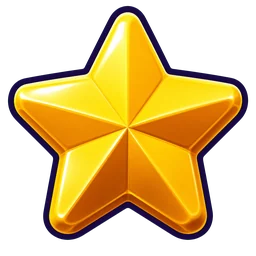
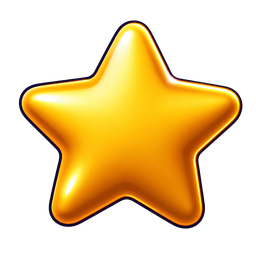
encargo 48: la estrella nueva del super (2026-08-08 60055fe)

diff --git a/play-cktxj8m6/index.html b/play-cktxj8m6/index.html
@@ -1,6 +1,6 @@
 <meta charset="utf-8">
 <meta name="robots" content="noindex, nofollow">
-<meta name="bt-build" content="2026-08-08 2a5528f"><!--+AG doc 34 Fase B: sin esto el navegador adivina el encoding y los emojis/flechas salen como mojibake (a-¶ PLAY) -->
+<meta name="bt-build" content="2026-08-08 60055fe"><!--+AG doc 34 Fase B: sin esto el navegador adivina el encoding y los emojis/flechas salen como mojibake (a-¶ PLAY) -->
 <meta name="viewport" content="width=device-width, initial-scale=1, maximum-scale=1, user-scalable=no">
 <title>BallTrials · El juego</title>
 <!--+AG doc 41 bloque E: el mapa de librerias (three, para el fondo vivo y las bolas de los menus).
@@ -6332,7 +6332,7 @@
 
 <!--+AG doc 41 bloque C: iconos de modo canonicos (SVG plano dorado del canal). Script CLASICO y
      antes del principal a proposito: se ejecuta en orden y la constante existe ya en el primer render. -->
-<script src="i18n/idiomas.js?v=2a5528f"></script><!--+AG doc 49: catalogo de los 20 idiomas + cargador de paquetes. Clasico y ANTES del script principal: LANGS/ord/nfmt se construyen con el. -->
+<script src="i18n/idiomas.js?v=60055fe"></script><!--+AG doc 49: catalogo de los 20 idiomas + cargador de paquetes. Clasico y ANTES del script principal: LANGS/ord/nfmt se construyen con el. -->
 <script src="arte/modeicons-vendored.js"></script>
 <script src="arte/bolas-canon.js"></script><!--+AG el color canonico de las 12 bolas, fuente unica (lo lee tambien integrar-bolas.py). Tiene que ir ANTES del script principal: ARCH_COLOR se construye con el. -->
 <script>
@@ -7643,7 +7643,10 @@ const nfmt=n=>Number(n||0).toLocaleString(BTI18N.nloc(LANG));
 //   `curl` devolvia los bytes nuevos y el navegador seguia pintando los viejos). La nota larga esta
 //   encima de `.cico` en el CSS. Al SUSTITUIR una imagen ya desplegada, sube este numero.
 //   v2 = 1-ago-2026: monedas de oro y gema (encargo 29) + trofeo con tinta (encargo 30).
-const ART_V='4';   /*+AG 7-ago: sube a 3 al entrar los 4 iconos de booster nuevos, que sustituyen a ficheros del mismo nombre.
+const ART_V='5';   /*+AG 8-ago: sube a 5 al entrar la ESTRELLA nueva del súper (encargo 48), que sustituye a
+                        `icono-super.webp`. Sin subirlo, el navegador y la CDN siguen sirviendo la vieja — y eso
+                        no es teoría: el 8-ago se midió a Chrome recibiendo el dibujo de hace 6 días.
+                     +AG 7-ago: sube a 3 al entrar los 4 iconos de booster nuevos, que sustituyen a ficheros del mismo nombre.
                       8-ago: sube a 4 porque los TRES REGALOS pasan de morado a rojo (doc 102) sin cambiar de nombre de
                       fichero — sin esto, el navegador y la CDN seguirian sirviendo la caja morada durante dias. */
 const uiArt=n=>`arte/ui/${n}.webp?v=${ART_V}`;
@@ -9888,7 +9891,7 @@ function vivasSync(){
   if(_vivas){ _vivas.sincroniza(raiz,z); return; }
   if(_vivasCargando) return;
   _vivasCargando=true;
-  import('./motor/chassis/vivas.mjs?v=2a5528f').then(m=>{ _vivas=m.vivas; _vivasCargando=false; window.__vivasInfo=()=>_vivas.info(); const [r,zz]=vivasQue(); _vivas.sincroniza(r,zz); })
+  import('./motor/chassis/vivas.mjs?v=60055fe').then(m=>{ _vivas=m.vivas; _vivasCargando=false; window.__vivasInfo=()=>_vivas.info(); const [r,zz]=vivasQue(); _vivas.sincroniza(r,zz); })
     .catch(e=>{ _vivasCargando=false; console.warn('[vivas] no cargo; las cartas se quedan sin bola', e); });
 }
 //+AG y se PARAN al salir: doce bolas en 3D girando detras de una pantalla que ya no miras es bateria
@@ -10158,7 +10161,7 @@ const esEstela=id=>ESTELA_ORD.indexOf(id)>=0;
 let ESTELA_COLS=null;
 function cargaEstelaCols(cb){
   if(ESTELA_COLS) return cb();
-  import('./motor/chassis/estelas.mjs?v=2a5528f')
+  import('./motor/chassis/estelas.mjs?v=60055fe')
     .then(m=>{ ESTELA_COLS=m.ESTELAS||{}; cb(); })
     .catch(()=>{ ESTELA_COLS={}; cb(); });   //   sin red, fichas en gris: nunca una pantalla rota
 }
@@ -12629,7 +12632,7 @@ atrasSync();
 <!--+AG El mapa de librerias (importmap) YA NO VIVE AQUI: se subio al <head>, arriba del todo.
      Tiene que estar parseado ANTES del primer import, y desde aqui abajo no lo estaba. -->
 <script type="module">
-  import { startAmbient } from './arte/ambient.mjs?v=2a5528f';
+  import { startAmbient } from './arte/ambient.mjs?v=60055fe';
   //+AG el modulo se ejecuta DESPUES del script clasico, asi que al llegar aqui la Home ya esta
   //   pintada: por eso se enciende a mano si toca, en vez de esperar a un cambio de pantalla.
   //+AG feedback Jaime 2026-07-27: ahora hay DOS lienzos posibles (Home #ambient y Resultados #ambientR);
@@ -12645,7 +12648,7 @@ atrasSync();
   //+AG doc 51: «asi se ve en pista» dentro de la ficha del Garaje. Se expone en window porque
   //   openDetail/closeDetail viven en el script CLASICO de arriba, que no puede importar modulos.
   //   Mismo trato que el fondo vivo: un solo contexto WebGL a la vez, y se apaga al salir.
-  import('./arte/pista-preview.mjs?v=2a5528f').then(m => {
+  import('./arte/pista-preview.mjs?v=60055fe').then(m => {
     window.BT_PISTA = { show:(el,k)=>{ try{ m.showPista(el,k); }catch(e){} }, stop:()=>m.stopPista() };
   });
 </script>
@@ -12657,8 +12660,8 @@ atrasSync();
      Se reusa el reproductor DEL MOTOR (chassis/webaudio.mjs), no uno nuevo: mismo desbloqueo por gesto, mismo
      rescate al volver de segundo plano en movil. -->
 <script type="module">
-  import { createWebAudio } from './motor/chassis/webaudio.mjs?v=2a5528f';
-  import { createUiSfx } from './motor/chassis/uisfx.mjs?v=2a5528f';   //+AG el clic de los menus (VB Jaime 2026-07-27)
+  import { createWebAudio } from './motor/chassis/webaudio.mjs?v=60055fe';
+  import { createUiSfx } from './motor/chassis/uisfx.mjs?v=60055fe';   //+AG el clic de los menus (VB Jaime 2026-07-27)
   //+AG VOLUMEN MEDIDO, no a ojo. La pista de lobby ya viene suavizada de origen (-22,3 LUFS) y las de partida
   //   estan a -15, o sea 7 dB mas fuertes. Con el 0.26 que usa la web oficial esto quedaria 8,5 dB por debajo de
   //   la partida: casi inaudible. Con 0.40 se queda ~5 dB por debajo, que es lo que se busca: los menus suenan de
@@ -12828,7 +12831,7 @@ atrasSync();
   (async ()=>{
     try{
       const [{crearNube},{crearSincro}] = await Promise.all([
-        import('./motor/chassis/nube.mjs?v=2a5528f'), import('./motor/chassis/sincro.mjs?v=2a5528f')]);
+        import('./motor/chassis/nube.mjs?v=60055fe'), import('./motor/chassis/sincro.mjs?v=60055fe')]);
       const nube   = crearNube();
       const sincro = crearSincro({ nube, aviso:(q,d)=>console.log('[nube]', q, d||'') });
       window.BT_NUBE = { nube, sincro };

diff --git a/play-cktxj8m6/motor/redlight/index.html b/play-cktxj8m6/motor/redlight/index.html
@@ -3,7 +3,7 @@
 <head>
 <meta charset="utf-8" />
 <meta name="robots" content="noindex, nofollow">
-<meta name="bt-build" content="2026-08-08 2a5528f">
+<meta name="bt-build" content="2026-08-08 60055fe">
 <meta name="viewport" content="width=device-width, initial-scale=1" />
 <!--+AG el HTML se sirve en INGLES (defecto del juego); ?lang=es lo traduce por JS (applyLang) -->
 <title>YouBall · Red Light Rush (WebGL) · The Marble Games</title>
@@ -536,7 +536,7 @@ if(new URLSearchParams(location.search).get('drive')==='1'){
 
 <!--+AG ICONO DE MODO para el cartel de arranque: script CLÁSICO (se ejecuta antes del módulo) igual que en
      juego.html, así window.VENDORED_MODE_ICONS ya existe cuando chassis/arranque.mjs construye el cartel. -->
-<script src="../../i18n/idiomas.js?v=2a5528f"></script><!--+AG doc 49: catalogo y cargador de los 20 idiomas, compartido con el shell. Clasico y antes del modulo. -->
+<script src="../../i18n/idiomas.js?v=60055fe"></script><!--+AG doc 49: catalogo y cargador de los 20 idiomas, compartido con el shell. Clasico y antes del modulo. -->
 <script src="../../arte/modeicons-vendored.js"></script>
 
 <script type="importmap">
@@ -547,32 +547,32 @@ if(new URLSearchParams(location.search).get('drive')==='1'){
 </script>
 
 <script type="module">
-import { THREE, sat, createStage, createParticles, makeBallVinyl, createStarBurst, createWindTrail, createBloom, frameOrtho, BLOOM } from '../chassis/gfx.mjs?v=2a5528f';
-import { paleta as estelaPaleta, emiteEstela } from '../chassis/estelas.mjs?v=2a5528f';   //+AG doc 97 §6: la estela cosmetica del jugador
-import { archLook } from '../chassis/ballmat.mjs?v=2a5528f';   //+AG doc 41 bloque G: material de la bola-heroe
-import { attachSquash } from '../chassis/squash.mjs?v=2a5528f';
-import { createCelebration } from '../chassis/celebration.mjs?v=2a5528f';
-import { createKillfeed } from '../chassis/killfeed.mjs?v=2a5528f';
-import { createCensusBoard } from '../chassis/censusboard.mjs?v=2a5528f';
-import { createCupoGauge } from '../chassis/cupogauge.mjs?v=2a5528f';
-import { createKillTags } from '../chassis/killtag.mjs?v=2a5528f';
-import { crearInventario } from '../chassis/invboost.mjs?v=2a5528f';   //+AG 2026-08-06 inventario de boosters (1 uso gratis + stock comprado)
-import { EmoBook, PRIO } from '../chassis/emotions.mjs?v=2a5528f';
-import { archFace } from '../chassis/facegen.mjs?v=2a5528f';   //+AG archFace: la cara de la FICHA (ceja+boca del heroe) sobre el reposo
-import { Sim, TEAMS, SHORT_COLORS, SHORT_COLORS_6, BALL_R, FPS, FIELD_W, FIELD_L, XL, XR, SPAWN_Y, GATE_Y, SAFE_Y } from './sim.js?v=2a5528f';
-import { createWebAudio, pickTrack } from '../chassis/webaudio.mjs?v=2a5528f';
-import { buildSfxBuffer } from './sfxmap.mjs?v=2a5528f';
-import { createCoach } from '../chassis/coach.mjs?v=2a5528f';   //+AG COACH del tutorial "Cómo jugar" (solo se usa con ?tutorial=1)
-import { crearSalida } from '../chassis/salida.mjs?v=2a5528f';   //+AG 2026-08-08 · preparar la bola durante la cuenta atrás
-import { createArranque, modeBanner, sfxCountdown } from '../chassis/arranque.mjs?v=2a5528f';   //+AG cartel "¿LISTO?" + cuenta atrás CON sonido (los 3 modos)
-import { createUiSfx } from '../chassis/uisfx.mjs?v=2a5528f';   //+AG doc 88: el sonido de "no puedo"
-import { createJuice } from '../chassis/juice.mjs?v=2a5528f';   //+AG doc 88: lo que pasa cuando el dedo toca un botón (los 3 modos)
+import { THREE, sat, createStage, createParticles, makeBallVinyl, createStarBurst, createWindTrail, createBloom, frameOrtho, BLOOM } from '../chassis/gfx.mjs?v=60055fe';
+import { paleta as estelaPaleta, emiteEstela } from '../chassis/estelas.mjs?v=60055fe';   //+AG doc 97 §6: la estela cosmetica del jugador
+import { archLook } from '../chassis/ballmat.mjs?v=60055fe';   //+AG doc 41 bloque G: material de la bola-heroe
+import { attachSquash } from '../chassis/squash.mjs?v=60055fe';
+import { createCelebration } from '../chassis/celebration.mjs?v=60055fe';
+import { createKillfeed } from '../chassis/killfeed.mjs?v=60055fe';
+import { createCensusBoard } from '../chassis/censusboard.mjs?v=60055fe';
+import { createCupoGauge } from '../chassis/cupogauge.mjs?v=60055fe';
+import { createKillTags } from '../chassis/killtag.mjs?v=60055fe';
+import { crearInventario } from '../chassis/invboost.mjs?v=60055fe';   //+AG 2026-08-06 inventario de boosters (1 uso gratis + stock comprado)
+import { EmoBook, PRIO } from '../chassis/emotions.mjs?v=60055fe';
+import { archFace } from '../chassis/facegen.mjs?v=60055fe';   //+AG archFace: la cara de la FICHA (ceja+boca del heroe) sobre el reposo
+import { Sim, TEAMS, SHORT_COLORS, SHORT_COLORS_6, BALL_R, FPS, FIELD_W, FIELD_L, XL, XR, SPAWN_Y, GATE_Y, SAFE_Y } from './sim.js?v=60055fe';
+import { createWebAudio, pickTrack } from '../chassis/webaudio.mjs?v=60055fe';
+import { buildSfxBuffer } from './sfxmap.mjs?v=60055fe';
+import { createCoach } from '../chassis/coach.mjs?v=60055fe';   //+AG COACH del tutorial "Cómo jugar" (solo se usa con ?tutorial=1)
+import { crearSalida } from '../chassis/salida.mjs?v=60055fe';   //+AG 2026-08-08 · preparar la bola durante la cuenta atrás
+import { createArranque, modeBanner, sfxCountdown } from '../chassis/arranque.mjs?v=60055fe';   //+AG cartel "¿LISTO?" + cuenta atrás CON sonido (los 3 modos)
+import { createUiSfx } from '../chassis/uisfx.mjs?v=60055fe';   //+AG doc 88: el sonido de "no puedo"
+import { createJuice } from '../chassis/juice.mjs?v=60055fe';   //+AG doc 88: lo que pasa cuando el dedo toca un botón (los 3 modos)
 //+AG el ámbito NO es opcional: la regla base es `#controls button` (id + etiqueta) y le gana en
 //   especificidad a cualquier `.j-hit` suelto. Es la trampa que ya costó una versión muerta en este
 //   mismo fichero (ver la nota de `#controls button#bGhost .bi`).
 const juice = createJuice({ ambito:'#controls', reducido: new URLSearchParams(location.search).get('redfx')==='1' });
-import { createPausa } from '../chassis/pausa.mjs?v=2a5528f';   //+AG la partida se PARA cuando el shell pregunta encima (los 3 modos)
-import { cantarPuesto } from '../chassis/veredicto.mjs?v=2a5528f';   //+AG cartel de FIN: "en qué puesto has quedado", antes de soltar el resultado al shell
+import { createPausa } from '../chassis/pausa.mjs?v=60055fe';   //+AG la partida se PARA cuando el shell pregunta encima (los 3 modos)
+import { cantarPuesto } from '../chassis/veredicto.mjs?v=60055fe';   //+AG cartel de FIN: "en qué puesto has quedado", antes de soltar el resultado al shell
 
 window.addEventListener('error', e => { document.getElementById('err').style.display='grid'; console.error(e.error||e.message); });
 

diff --git a/play-cktxj8m6/motor/race/index.html b/play-cktxj8m6/motor/race/index.html
@@ -4,7 +4,7 @@
 <head>
 <meta charset="utf-8" />
 <meta name="robots" content="noindex, nofollow">
-<meta name="bt-build" content="2026-08-08 2a5528f">
+<meta name="bt-build" content="2026-08-08 60055fe">
 <meta name="viewport" content="width=device-width, initial-scale=1" />
 <title>YouBall · La Gran Carrera (WebGL)</title>
 <style>
@@ -491,7 +491,7 @@ if(new URLSearchParams(location.search).get('drive')==='1'){
 
 <!--+AG ICONO DE MODO para el cartel de arranque: script CLÁSICO (se ejecuta antes del módulo) igual que en
      juego.html, así window.VENDORED_MODE_ICONS ya existe cuando chassis/arranque.mjs construye el cartel. -->
-<script src="../../i18n/idiomas.js?v=2a5528f"></script><!--+AG doc 49: catalogo y cargador de los 20 idiomas, compartido con el shell. Clasico y antes del modulo. -->
+<script src="../../i18n/idiomas.js?v=60055fe"></script><!--+AG doc 49: catalogo y cargador de los 20 idiomas, compartido con el shell. Clasico y antes del modulo. -->
 <script src="../../arte/modeicons-vendored.js"></script>
 
 <script type="importmap">
@@ -502,30 +502,30 @@ if(new URLSearchParams(location.search).get('drive')==='1'){
 </script>
 
 <script type="module">
-import { THREE, BLOOM, sat, createStage, createParticles, makeBallVinyl, createStarBurst, createWindTrail, createItemPops, createBloom, frameOrtho, buildHud, updateHud } from '../chassis/gfx.mjs?v=2a5528f';
-import { archLook } from '../chassis/ballmat.mjs?v=2a5528f';   //+AG doc 41 bloque G: material de la bola-heroe
-import { attachSquash } from '../chassis/squash.mjs?v=2a5528f';
-import { crearEscudos } from '../chassis/escudo.mjs?v=2a5528f';   //+AG 2026-08-08: la burbuja que dice "llevo escudo puesto"
-import { paleta as estelaPaleta, emiteEstela } from '../chassis/estelas.mjs?v=2a5528f';   //+AG doc 97 §6: la estela cosmetica del jugador
+import { THREE, BLOOM, sat, createStage, createParticles, makeBallVinyl, createStarBurst, createWindTrail, createItemPops, createBloom, frameOrtho, buildHud, updateHud } from '../chassis/gfx.mjs?v=60055fe';
+import { archLook } from '../chassis/ballmat.mjs?v=60055fe';   //+AG doc 41 bloque G: material de la bola-heroe
+import { attachSquash } from '../chassis/squash.mjs?v=60055fe';
+import { crearEscudos } from '../chassis/escudo.mjs?v=60055fe';   //+AG 2026-08-08: la burbuja que dice "llevo escudo puesto"
+import { paleta as estelaPaleta, emiteEstela } from '../chassis/estelas.mjs?v=60055fe';   //+AG doc 97 §6: la estela cosmetica del jugador
 import { Sim, RNG, TEAMS, SHORT_COLORS, BALL_R, WIDTH, GATE_Y, GATE_H, TOP, FPS,
-         DIR, N_BALLS, CAM_SCALE, ASPA_R, ASPA_THICK, PLAT_HW, PLAT_HH } from './sim.js?v=2a5528f';   //+AG extras de la capa de agencia
+         DIR, N_BALLS, CAM_SCALE, ASPA_R, ASPA_THICK, PLAT_HW, PLAT_HH } from './sim.js?v=60055fe';   //+AG extras de la capa de agencia
 //+AG doc 62: los encuadres del cierre (sim.hero_scale / sim.celeb_scale) se leen del OBJETO sim, no por
 //   import. Un export que la CDN aún no ha refrescado tumba el módulo entero y la partida no arranca (pasó
 //   en producción el 2-ago); un campo que falta degrada a la cámara de siempre. Ver la nota en sim.js.
-import { EmoBook, PRIO } from '../chassis/emotions.mjs?v=2a5528f';
-import { archFace } from '../chassis/facegen.mjs?v=2a5528f';   //+AG archFace: la cara de la FICHA (ceja+boca del heroe) sobre el reposo
-import { itemTexture } from '../chassis/itemgen.mjs?v=2a5528f';
-import { crearInventario } from '../chassis/invboost.mjs?v=2a5528f';   //+AG 2026-08-06 inventario de boosters (1 uso gratis + stock comprado)
-import { createWebAudio, pickTrack } from '../chassis/webaudio.mjs?v=2a5528f';
-import { buildSfxBuffer } from './sfxmap.mjs?v=2a5528f';
-import { runToEnd } from '../chassis/simrun.mjs?v=2a5528f';
-import { createCoach } from '../chassis/coach.mjs?v=2a5528f';   //+AG COACH del tutorial "Cómo jugar" (solo se usa con ?tutorial=1)
-import { crearSalida } from '../chassis/salida.mjs?v=2a5528f';   //+AG 2026-08-08 · preparar la bola durante la cuenta atrás
-import { createArranque, modeBanner, sfxCountdown } from '../chassis/arranque.mjs?v=2a5528f';   //+AG cartel "¿LISTO?" + cuenta atrás CON sonido (los 3 modos)
-import { createPausa } from '../chassis/pausa.mjs?v=2a5528f';   //+AG la partida se PARA cuando el shell pregunta encima (los 3 modos)
-import { cantarPuesto } from '../chassis/veredicto.mjs?v=2a5528f';   //+AG cartel de META: "en qué puesto has quedado", antes de soltar el resultado al shell
-import { createUiSfx } from '../chassis/uisfx.mjs?v=2a5528f';   //+AG doc 88: el sonido de "no puedo"
-import { createJuice } from '../chassis/juice.mjs?v=2a5528f';   //+AG doc 88: lo que pasa cuando el dedo toca un botón (los 3 modos)
+import { EmoBook, PRIO } from '../chassis/emotions.mjs?v=60055fe';
+import { archFace } from '../chassis/facegen.mjs?v=60055fe';   //+AG archFace: la cara de la FICHA (ceja+boca del heroe) sobre el reposo
+import { itemTexture } from '../chassis/itemgen.mjs?v=60055fe';
+import { crearInventario } from '../chassis/invboost.mjs?v=60055fe';   //+AG 2026-08-06 inventario de boosters (1 uso gratis + stock comprado)
+import { createWebAudio, pickTrack } from '../chassis/webaudio.mjs?v=60055fe';
+import { buildSfxBuffer } from './sfxmap.mjs?v=60055fe';
+import { runToEnd } from '../chassis/simrun.mjs?v=60055fe';
+import { createCoach } from '../chassis/coach.mjs?v=60055fe';   //+AG COACH del tutorial "Cómo jugar" (solo se usa con ?tutorial=1)
+import { crearSalida } from '../chassis/salida.mjs?v=60055fe';   //+AG 2026-08-08 · preparar la bola durante la cuenta atrás
+import { createArranque, modeBanner, sfxCountdown } from '../chassis/arranque.mjs?v=60055fe';   //+AG cartel "¿LISTO?" + cuenta atrás CON sonido (los 3 modos)
+import { createPausa } from '../chassis/pausa.mjs?v=60055fe';   //+AG la partida se PARA cuando el shell pregunta encima (los 3 modos)
+import { cantarPuesto } from '../chassis/veredicto.mjs?v=60055fe';   //+AG cartel de META: "en qué puesto has quedado", antes de soltar el resultado al shell
+import { createUiSfx } from '../chassis/uisfx.mjs?v=60055fe';   //+AG doc 88: el sonido de "no puedo"
+import { createJuice } from '../chassis/juice.mjs?v=60055fe';   //+AG doc 88: lo que pasa cuando el dedo toca un botón (los 3 modos)
 //+AG el ámbito NO es opcional: `#ctr button:disabled` le gana en especificidad a cualquier `.j-hit` suelto,
 //   y un booster se pone `disabled` en el MISMO frame en que se dispara. Sin el ámbito, el fogonazo del
 //   botón que más importa no se vería jamás (es la trampa del doc 74 §6, ahora con su nombre).

diff --git a/play-cktxj8m6/motor/cazador/index.html b/play-cktxj8m6/motor/cazador/index.html
@@ -3,7 +3,7 @@
 <head>
 <meta charset="utf-8" />
 <meta name="robots" content="noindex, nofollow">
-<meta name="bt-build" content="2026-08-08 2a5528f">
+<meta name="bt-build" content="2026-08-08 60055fe">
 <meta name="viewport" content="width=device-width, initial-scale=1" />
 <!--+AG el HTML se sirve en INGLES (defecto del juego); ?lang=es lo traduce por JS (applyLang) -->
 <title>YouBall · The Hunter (WebGL)</title>
@@ -395,7 +395,7 @@ if(new URLSearchParams(location.search).get('drive')==='1'){
 
 <!--+AG ICONO DE MODO para el cartel de arranque: script CLÁSICO (se ejecuta antes del módulo) igual que en
      juego.html, así window.VENDORED_MODE_ICONS ya existe cuando chassis/arranque.mjs construye el cartel. -->
-<script src="../../i18n/idiomas.js?v=2a5528f"></script><!--+AG doc 49: catalogo y cargador de los 20 idiomas, compartido con el shell. Clasico y antes del modulo. -->
+<script src="../../i18n/idiomas.js?v=60055fe"></script><!--+AG doc 49: catalogo y cargador de los 20 idiomas, compartido con el shell. Clasico y antes del modulo. -->
 <script src="../../arte/modeicons-vendored.js"></script>
 
 <script type="importmap">
@@ -406,30 +406,30 @@ if(new URLSearchParams(location.search).get('drive')==='1'){
 </script>
 
 <script type="module">
-import { THREE, BLOOM, sat, createStage, createParticles, makeBallVinyl, makeFacePlane, createItemPool, createItemPops, createStarBurst, createWindTrail, createBloom, frameOrtho } from '../chassis/gfx.mjs?v=2a5528f';
-import { archLook } from '../chassis/ballmat.mjs?v=2a5528f';   //+AG doc 41 bloque G: material de la bola-heroe
-import { attachSquash } from '../chassis/squash.mjs?v=2a5528f';
-import { crearEscudos } from '../chassis/escudo.mjs?v=2a5528f';   //+AG 2026-08-08: la burbuja que dice "llevo escudo puesto" (misma pieza que la Carrera)
-import { paleta as estelaPaleta, emiteEstela } from '../chassis/estelas.mjs?v=2a5528f';   //+AG doc 97 §6: la estela cosmetica del jugador
-import { Sim, RNG, TEAMS, BALL_R, ARENA_W, ARENA_H, FPS, AGENCIA } from './sim.js?v=2a5528f';
-import { EmoBook, PRIO } from '../chassis/emotions.mjs?v=2a5528f';
-import { archFace } from '../chassis/facegen.mjs?v=2a5528f';   //+AG archFace: la cara de la FICHA (ceja+boca del heroe) sobre el reposo
-import { createCelebration } from '../chassis/celebration.mjs?v=2a5528f';
-import { createWebAudio, pickTrack } from '../chassis/webaudio.mjs?v=2a5528f';
-import { crearInventario } from '../chassis/invboost.mjs?v=2a5528f';   //+AG 2026-08-06 inventario de boosters (1 uso gratis + stock comprado)
-import { buildSfxBuffer } from './sfxmap.mjs?v=2a5528f';
-import { createCoach } from '../chassis/coach.mjs?v=2a5528f';   //+AG COACH del tutorial "Cómo jugar" (solo se usa con ?tutorial=1)
-import { crearSalida } from '../chassis/salida.mjs?v=2a5528f';   //+AG 2026-08-08 · preparar la bola durante la cuenta atrás
-import { createArranque, modeBanner, sfxCountdown } from '../chassis/arranque.mjs?v=2a5528f';   //+AG cartel "¿LISTO?" + cuenta atrás CON sonido (los 3 modos)
-import { createUiSfx } from '../chassis/uisfx.mjs?v=2a5528f';   //+AG doc 88: el sonido de "no puedo"
-import { createJuice } from '../chassis/juice.mjs?v=2a5528f';   //+AG doc 88: lo que pasa cuando el dedo toca un botón (los 3 modos)
+import { THREE, BLOOM, sat, createStage, createParticles, makeBallVinyl, makeFacePlane, createItemPool, createItemPops, createStarBurst, createWindTrail, createBloom, frameOrtho } from '../chassis/gfx.mjs?v=60055fe';
+import { archLook } from '../chassis/ballmat.mjs?v=60055fe';   //+AG doc 41 bloque G: material de la bola-heroe
+import { attachSquash } from '../chassis/squash.mjs?v=60055fe';
+import { crearEscudos } from '../chassis/escudo.mjs?v=60055fe';   //+AG 2026-08-08: la burbuja que dice "llevo escudo puesto" (misma pieza que la Carrera)
+import { paleta as estelaPaleta, emiteEstela } from '../chassis/estelas.mjs?v=60055fe';   //+AG doc 97 §6: la estela cosmetica del jugador
+import { Sim, RNG, TEAMS, BALL_R, ARENA_W, ARENA_H, FPS, AGENCIA } from './sim.js?v=60055fe';
+import { EmoBook, PRIO } from '../chassis/emotions.mjs?v=60055fe';
+import { archFace } from '../chassis/facegen.mjs?v=60055fe';   //+AG archFace: la cara de la FICHA (ceja+boca del heroe) sobre el reposo
+import { createCelebration } from '../chassis/celebration.mjs?v=60055fe';
+import { createWebAudio, pickTrack } from '../chassis/webaudio.mjs?v=60055fe';
+import { crearInventario } from '../chassis/invboost.mjs?v=60055fe';   //+AG 2026-08-06 inventario de boosters (1 uso gratis + stock comprado)
+import { buildSfxBuffer } from './sfxmap.mjs?v=60055fe';
+import { createCoach } from '../chassis/coach.mjs?v=60055fe';   //+AG COACH del tutorial "Cómo jugar" (solo se usa con ?tutorial=1)
+import { crearSalida } from '../chassis/salida.mjs?v=60055fe';   //+AG 2026-08-08 · preparar la bola durante la cuenta atrás
+import { createArranque, modeBanner, sfxCountdown } from '../chassis/arranque.mjs?v=60055fe';   //+AG cartel "¿LISTO?" + cuenta atrás CON sonido (los 3 modos)
+import { createUiSfx } from '../chassis/uisfx.mjs?v=60055fe';   //+AG doc 88: el sonido de "no puedo"
+import { createJuice } from '../chassis/juice.mjs?v=60055fe';   //+AG doc 88: lo que pasa cuando el dedo toca un botón (los 3 modos)
 //+AG el ámbito NO es opcional: la regla base es `#controls button` (id + etiqueta) y le gana en
 //   especificidad a cualquier `.j-hit` suelto. Es la misma trampa que ya costó una versión muerta en la
 //   Carrera y otra en Luz Roja; aquí va escrita para no repetirla una tercera vez.
 const juice = createJuice({ ambito:'#controls', reducido: new URLSearchParams(location.search).get('redfx')==='1' });
-import { createPausa } from '../chassis/pausa.mjs?v=2a5528f';   //+AG la partida se PARA cuando el shell pregunta encima (los 3 modos)
-import { cantarPuesto } from '../chassis/veredicto.mjs?v=2a5528f';   //+AG cartel de FIN: "en qué puesto has quedado", antes de soltar el resultado al shell
-import { runToEnd } from '../chassis/simrun.mjs?v=2a5528f';
+import { createPausa } from '../chassis/pausa.mjs?v=60055fe';   //+AG la partida se PARA cuando el shell pregunta encima (los 3 modos)
+import { cantarPuesto } from '../chassis/veredicto.mjs?v=60055fe';   //+AG cartel de FIN: "en qué puesto has quedado", antes de soltar el resultado al shell
+import { runToEnd } from '../chassis/simrun.mjs?v=60055fe';
 
 window.addEventListener('error', e => { document.getElementById('err').style.display='grid'; console.error(e.error||e.message); });
 
